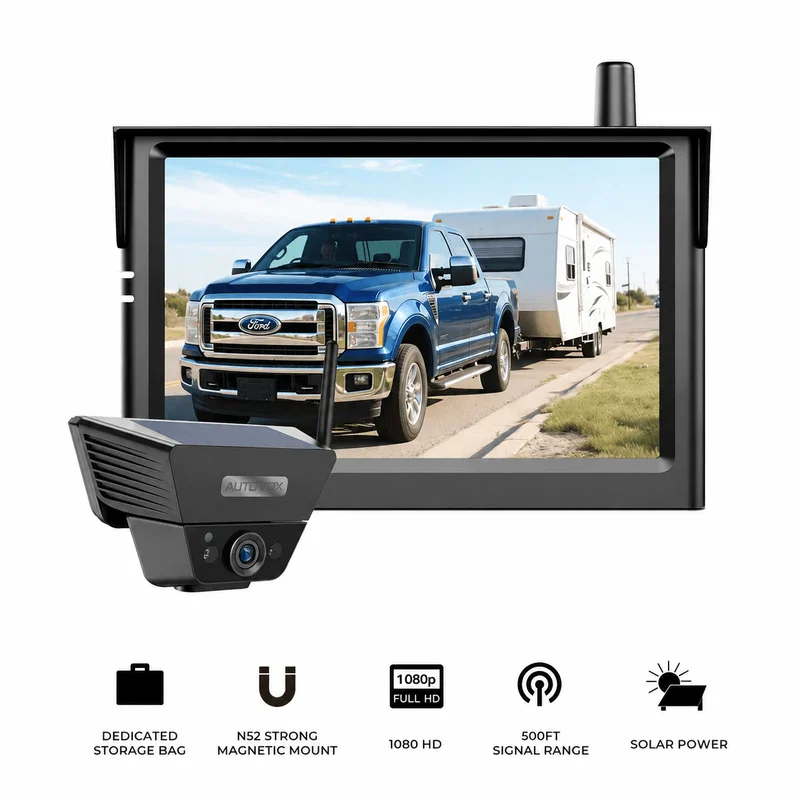
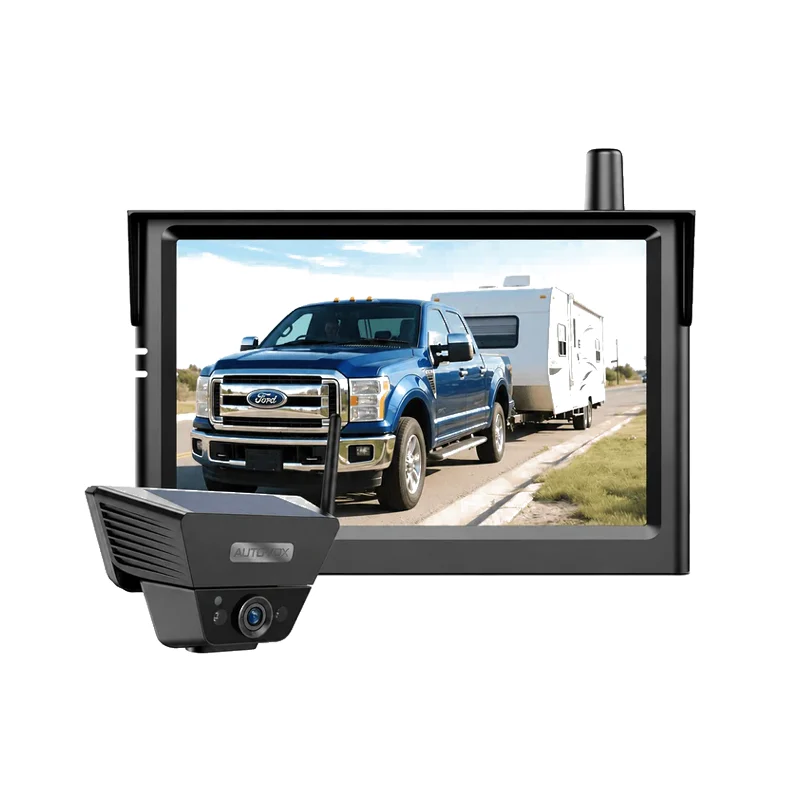
Add AUTO-VOX social kit; clean product image backgrounds

diff --git a/brand/social/autovox/captions.md b/brand/social/autovox/captions.md
@@ -1,0 +1,148 @@
+# AUTO-VOX: social posts
+
+Images: `*-ig.png` = Facebook + Instagram (1080×1080), `*-pin.png` = Pinterest (1000×1500).
+Coupon: PARKCHOICE = 12% off at auto-vox.com. Prices in USD (list prices, Nov 2026).
+Always mention honestly: Trustpilot 3.7; monitors still need USB/12V power.
+Emoji note: avoid emojis with a variation selector (⬆ 🌬 🤔 ⚠ 👁 ❤).
+Facebook: no URL or store domain; write "search X on WiseChoiceKR" without ".com".
+Pinterest board: Car Accessories & Gadgets (new).
+
+---
+
+## Post 1: Brand review
+Link: https://wisechoicekr.com/reviews/autovox-review/
+Image: autovox-1-brand-review-ig.png / -pin.png
+
+### Facebook
+Thinking about an AUTO-VOX solar backup camera? Read this first. 🚗
+
+✅ Battery + solar cameras, no wiring at the back
+✅ Kits from $109.99, free shipping over $49
+✅ 12-month warranty, 18 if you register
+❗ Trustpilot 3.7/5 (18% one-star, mostly durability)
+❗ The monitor still needs USB or 12V power
+❗ Non-defective returns: you pay shipping
+
+Our verdict: 7.1/10
+💸 Code PARKCHOICE = 12% off
+🔎 Search "AUTO-VOX review" on WiseChoiceKR
+
+### Instagram
+AUTO-VOX solar backup cameras: worth it? 🚗
+✅ No wiring at the camera
+✅ 18-month warranty if registered
+❗ Trustpilot 3.7
+❗ Monitor still needs power
+Our verdict: 7.1/10 ⭐
+💸 Code PARKCHOICE = 12% off
+Full review: link in bio 🔗
+.
+#autovox #backupcamera #wirelessbackupcamera #solarcamera #rvlife #pickuptruck #caraccessories #reversingcamera #rvaccessories #carreview #wisechoicekr
+
+### Pinterest
+Title: AUTO-VOX Review: Solar Wireless Backup Cameras, Worth It?
+Description: An honest look at AUTO-VOX's solar and wireless backup cameras for cars, trucks and RVs: prices, ratings vs Trustpilot, warranty, returns, and what "wireless" really means. Code PARKCHOICE = 12% off.
+Link: https://wisechoicekr.com/reviews/autovox-review/
+
+---
+
+## Post 2: Top 5 best sellers
+Link: https://wisechoicekr.com/best/best-autovox-backup-cameras/
+Image: autovox-2-top5-ig.png / -pin.png
+
+### Facebook
+AUTO-VOX's 5 best-selling backup cameras, compared. 🚗
+
+1⃣ Solar3A Plus ($129.99): cars and pickups
+2⃣ Solar 5B ($159.99): RVs, 524 ft range, recording
+3⃣ Solar3A Plus Max ($159.99): 7.2" screen + recording
+4⃣ Solar 5A ($139.99): budget magnetic pick
+5⃣ WF4 ($179.99): rear + side views for RVs
+💸 Code PARKCHOICE = 12% off
+
+🔎 Search "best AUTO-VOX backup cameras" on WiseChoiceKR
+
+### Instagram
+Top 5 AUTO-VOX backup cameras 🚗
+1⃣ Solar3A Plus: cars
+2⃣ Solar 5B: RVs
+3⃣ Plus Max: recording
+4⃣ Solar 5A: budget RV
+5⃣ WF4: side views
+💸 Code PARKCHOICE = 12% off
+Full list: link in bio 🔗
+.
+#autovox #backupcamera #wirelessbackupcamera #rvcamera #rvlife #camperlife #pickuptruck #caraccessories #towing #truckaccessories #wisechoicekr
+
+### Pinterest
+Title: Best AUTO-VOX Backup Cameras: Top 5 Best Sellers Compared
+Description: AUTO-VOX's five best-selling backup cameras in store order, from the $129.99 Solar3A Plus to the WF4 RV system: range, recording, mounting and who each suits. Code PARKCHOICE = 12% off.
+Link: https://wisechoicekr.com/best/best-autovox-backup-cameras/
+
+---
+
+## Post 3: Solar 3A vs Solar 5
+Link: https://wisechoicekr.com/best/autovox-solar-3a-vs-solar-5-series/
+Image: autovox-3-solar3a-vs-solar5-ig.png / -pin.png
+
+### Facebook
+AUTO-VOX Solar 3A or Solar 5? They look alike but suit different vehicles. 🚗
+
+🔹 Solar 3A: licence-plate mount, up to 52 ft range, for cars and pickups
+🔸 Solar 5: magnetic mount, up to 300–524 ft range, for RVs and trailers
+✅ Recording on the Solar3A Plus Max and Solar 5B
+❗ "3–4 months per charge" and "20 hours of use" measure different things
+
+🔎 Search "Solar 3A vs Solar 5" on WiseChoiceKR
+
+### Instagram
+Solar 3A vs Solar 5 🚗
+🔹 3A: plate mount, 52 ft, cars
+🔸 5: magnet, up to 524 ft, RVs
+✅ Want recording? Plus Max or 5B
+💸 Code PARKCHOICE = 12% off
+Full comparison: link in bio 🔗
+.
+#autovox #backupcamera #solarbackupcamera #rvlife #traveltrailer #fifthwheel #pickuptruck #caraccessories #rvaccessories #towing #wisechoicekr
+
+### Pinterest
+Title: AUTO-VOX Solar 3A vs Solar 5: Plate-Mount or Magnetic Backup Camera?
+Description: Two AUTO-VOX solar camera lines compared: mount, wireless range, battery claims and recording, and which suits a car, pickup, RV or trailer.
+Link: https://wisechoicekr.com/best/autovox-solar-3a-vs-solar-5-series/
+
+---
+
+## Post 4: Buying checklist
+Link: https://wisechoicekr.com/best/wireless-backup-camera-buying-checklist/
+Image: autovox-4-checklist-ig.png / -pin.png
+
+### Facebook
+Buying a wireless backup camera? Check these 8 things first. 🚗
+
+1⃣ Power: battery/solar, or wired to the reverse lights?
+2⃣ Range: cars need little, trailers need a lot
+3⃣ What the battery claim really measures
+4⃣ Plate mount or magnet
+5⃣ Recording or not
+6⃣ Horizontal vs diagonal viewing angle
+7⃣ Independent reviews, not just store stars
+8⃣ Who pays return shipping
+❗ "Wireless" rarely means the monitor needs no power
+
+🔎 Search "wireless backup camera checklist" on WiseChoiceKR
+
+### Instagram
+Wireless backup camera? Check 8 things 🚗
+1⃣ Power
+2⃣ Range
+3⃣ Battery claim
+4⃣ Mount
+5⃣ Recording
+Full checklist: link in bio 🔗
+.
+#backupcamera #wirelessbackupcamera #reversingcamera #caraccessories #cartips #rvtips #pickuptruck #solarcamera #autovox #carbuyingtips #wisechoicekr
+
+### Pinterest
+Title: Wireless Backup Camera Checklist: 8 Things to Check Before You Buy
+Description: What "no wiring", "solar powered" and "500 ft range" really mean: an 8-point checklist covering power, range, battery, mount, recording, viewing angle, ratings and returns.
+Link: https://wisechoicekr.com/best/wireless-backup-camera-buying-checklist/
